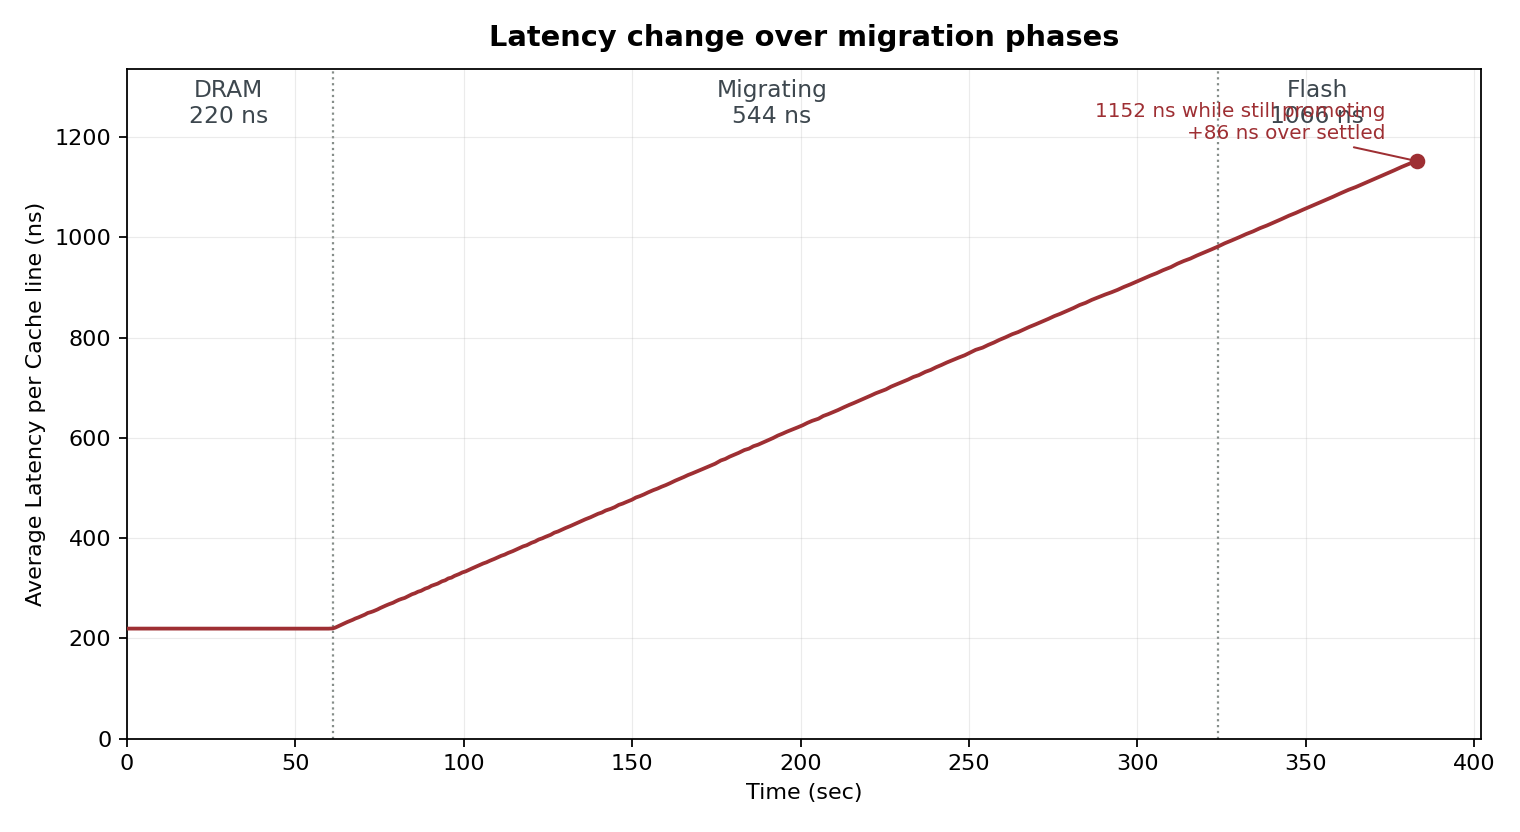
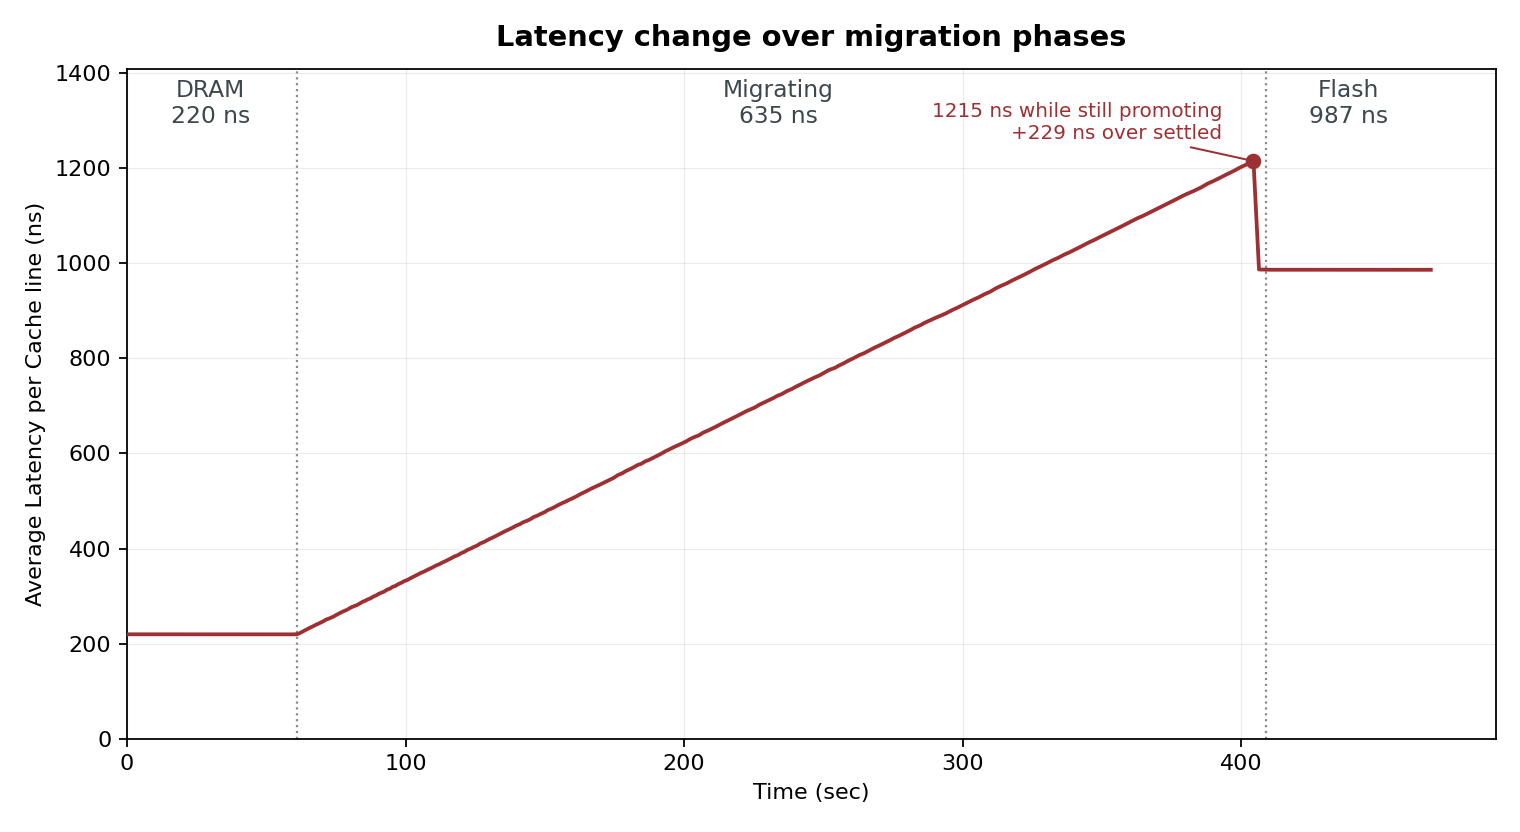
fig7: trust the recorded phase boundary when residency was observable
The derivation -- first pass within 2% of the flash mean -- was written when
RESID came out of the chase branch, so the harness never saw 99% and marked
the boundary 1,500 s late. With residency working it is worse than useless:
the migration OVERSHOOTS the settled value, so "first within 2% of it" fires
during the climb. Here it put the boundary at 322 s instead of 406 s and
averaged the overshoot and the drop together into a "flash" phase of 1036 ns,
which describes neither.

It now derives only when the CSV carries no residency at all, which is the
case it was written for.

diff --git a/scripts/plot_selftest.py b/scripts/plot_selftest.py
@@ -233,24 +233,28 @@ if r:
     ns = [float(x["ns_per_line"]) for x in r]
     ph = [int(x["phase"]) for x in r]
 
-    # DERIVE where migration ended rather than trusting the recorded boundary.
-    # The harness marks phase 3 when its residency poll reports 99%, and when
-    # that poll had no data to read it ran to its iteration cap -- putting the
-    # boundary 1,500 s after the medium had already changed. The latency curve
-    # itself says when: the first pass within 2% of the flash mean.
-    p1 = [v for v, q in zip(ns, ph) if q == 1]
-    p3 = [v for v, q in zip(ns, ph) if q == 3]
-    if p1 and p3:
-        lo, hi = sum(p1) / len(p1), sum(p3) / len(p3)
-        thresh = lo + 0.98 * (hi - lo)
-        cross = next((i for i, (v, q) in enumerate(zip(ns, ph)) if q >= 2 and v >= thresh), None)
-        if cross is not None:
-            ph = [q if q == 1 else (2 if i <= cross else 3) for i, q in enumerate(ph)]
-    fig, ax = plt.subplots(figsize=(9.5, 5.4))
+    # Trust the recorded boundary when the run could actually see residency,
+    # and only fall back to deriving one when it could not.
+    #
+    # The derivation -- first pass within 2% of the flash mean -- was written
+    # when RESID was being emitted from the chase branch, so the harness never
+    # saw 99% and marked the boundary 1,500 s late. With residency working it
+    # is worse than useless: the migration OVERSHOOTS the settled value, so
+    # "first within 2% of it" fires during the climb. On this run that put the
+    # boundary at 322 s instead of 406 s and folded the overshoot and the drop
+    # into a "flash" phase averaging 1036 ns, which is neither.
+    if not any(x["resid_pct"] for x in r):
+        p1 = [v for v, q in zip(ns, ph) if q == 1]
+        p3 = [v for v, q in zip(ns, ph) if q == 3]
+        if p1 and p3:
+            lo, hi = sum(p1) / len(p1), sum(p3) / len(p3)
+            thresh = lo + 0.98 * (hi - lo)
+            cross = next((i for i, (v, q) in enumerate(zip(ns, ph))
+                          if q >= 2 and v >= thresh), None)
+            if cross is not None:
+                ph = [q if q == 1 else (2 if i <= cross else 3)
+                      for i, q in enumerate(ph)]
 
-    # Shade the three regimes rather than drawing three separate series: it is
-    # one continuous workload and the point is that nothing about it changed
-    # except where its pages live.
     # Keep 60 s of the settled regime: long enough to show the overshoot come
     # back down, short enough that it does not dominate the axis.
     p3i = [i for i, q in enumerate(ph) if q == 3]
